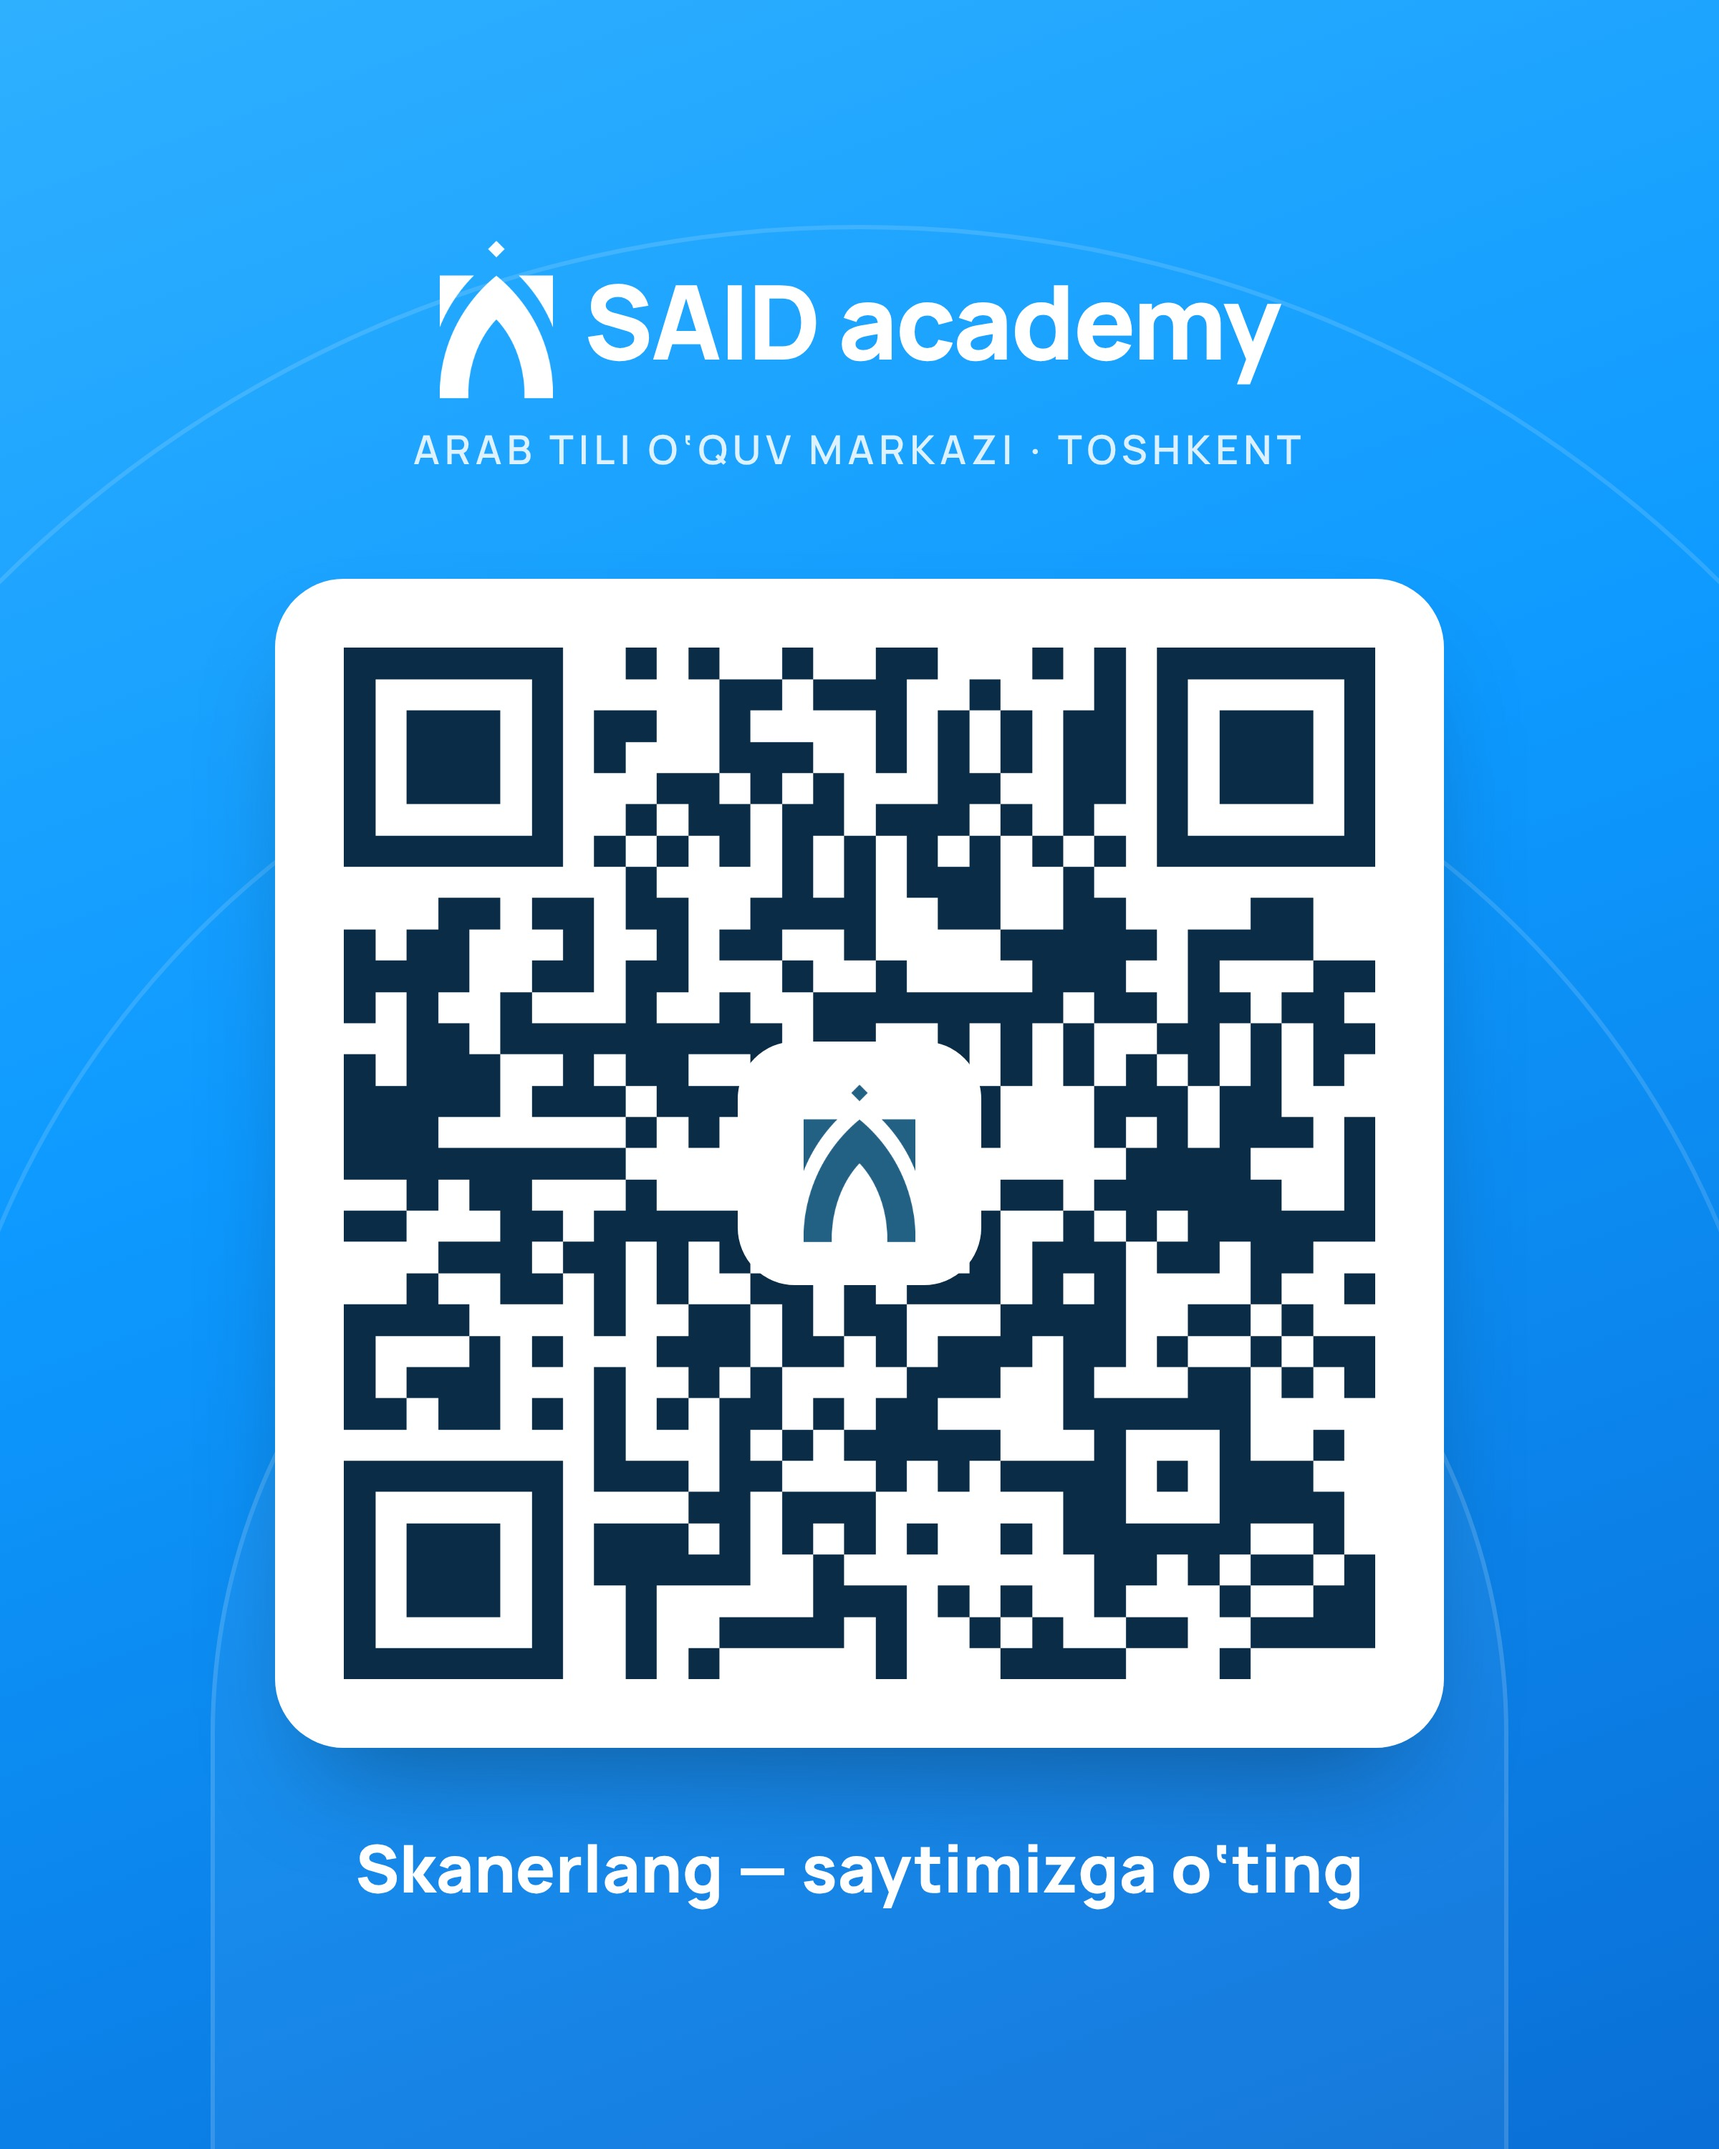
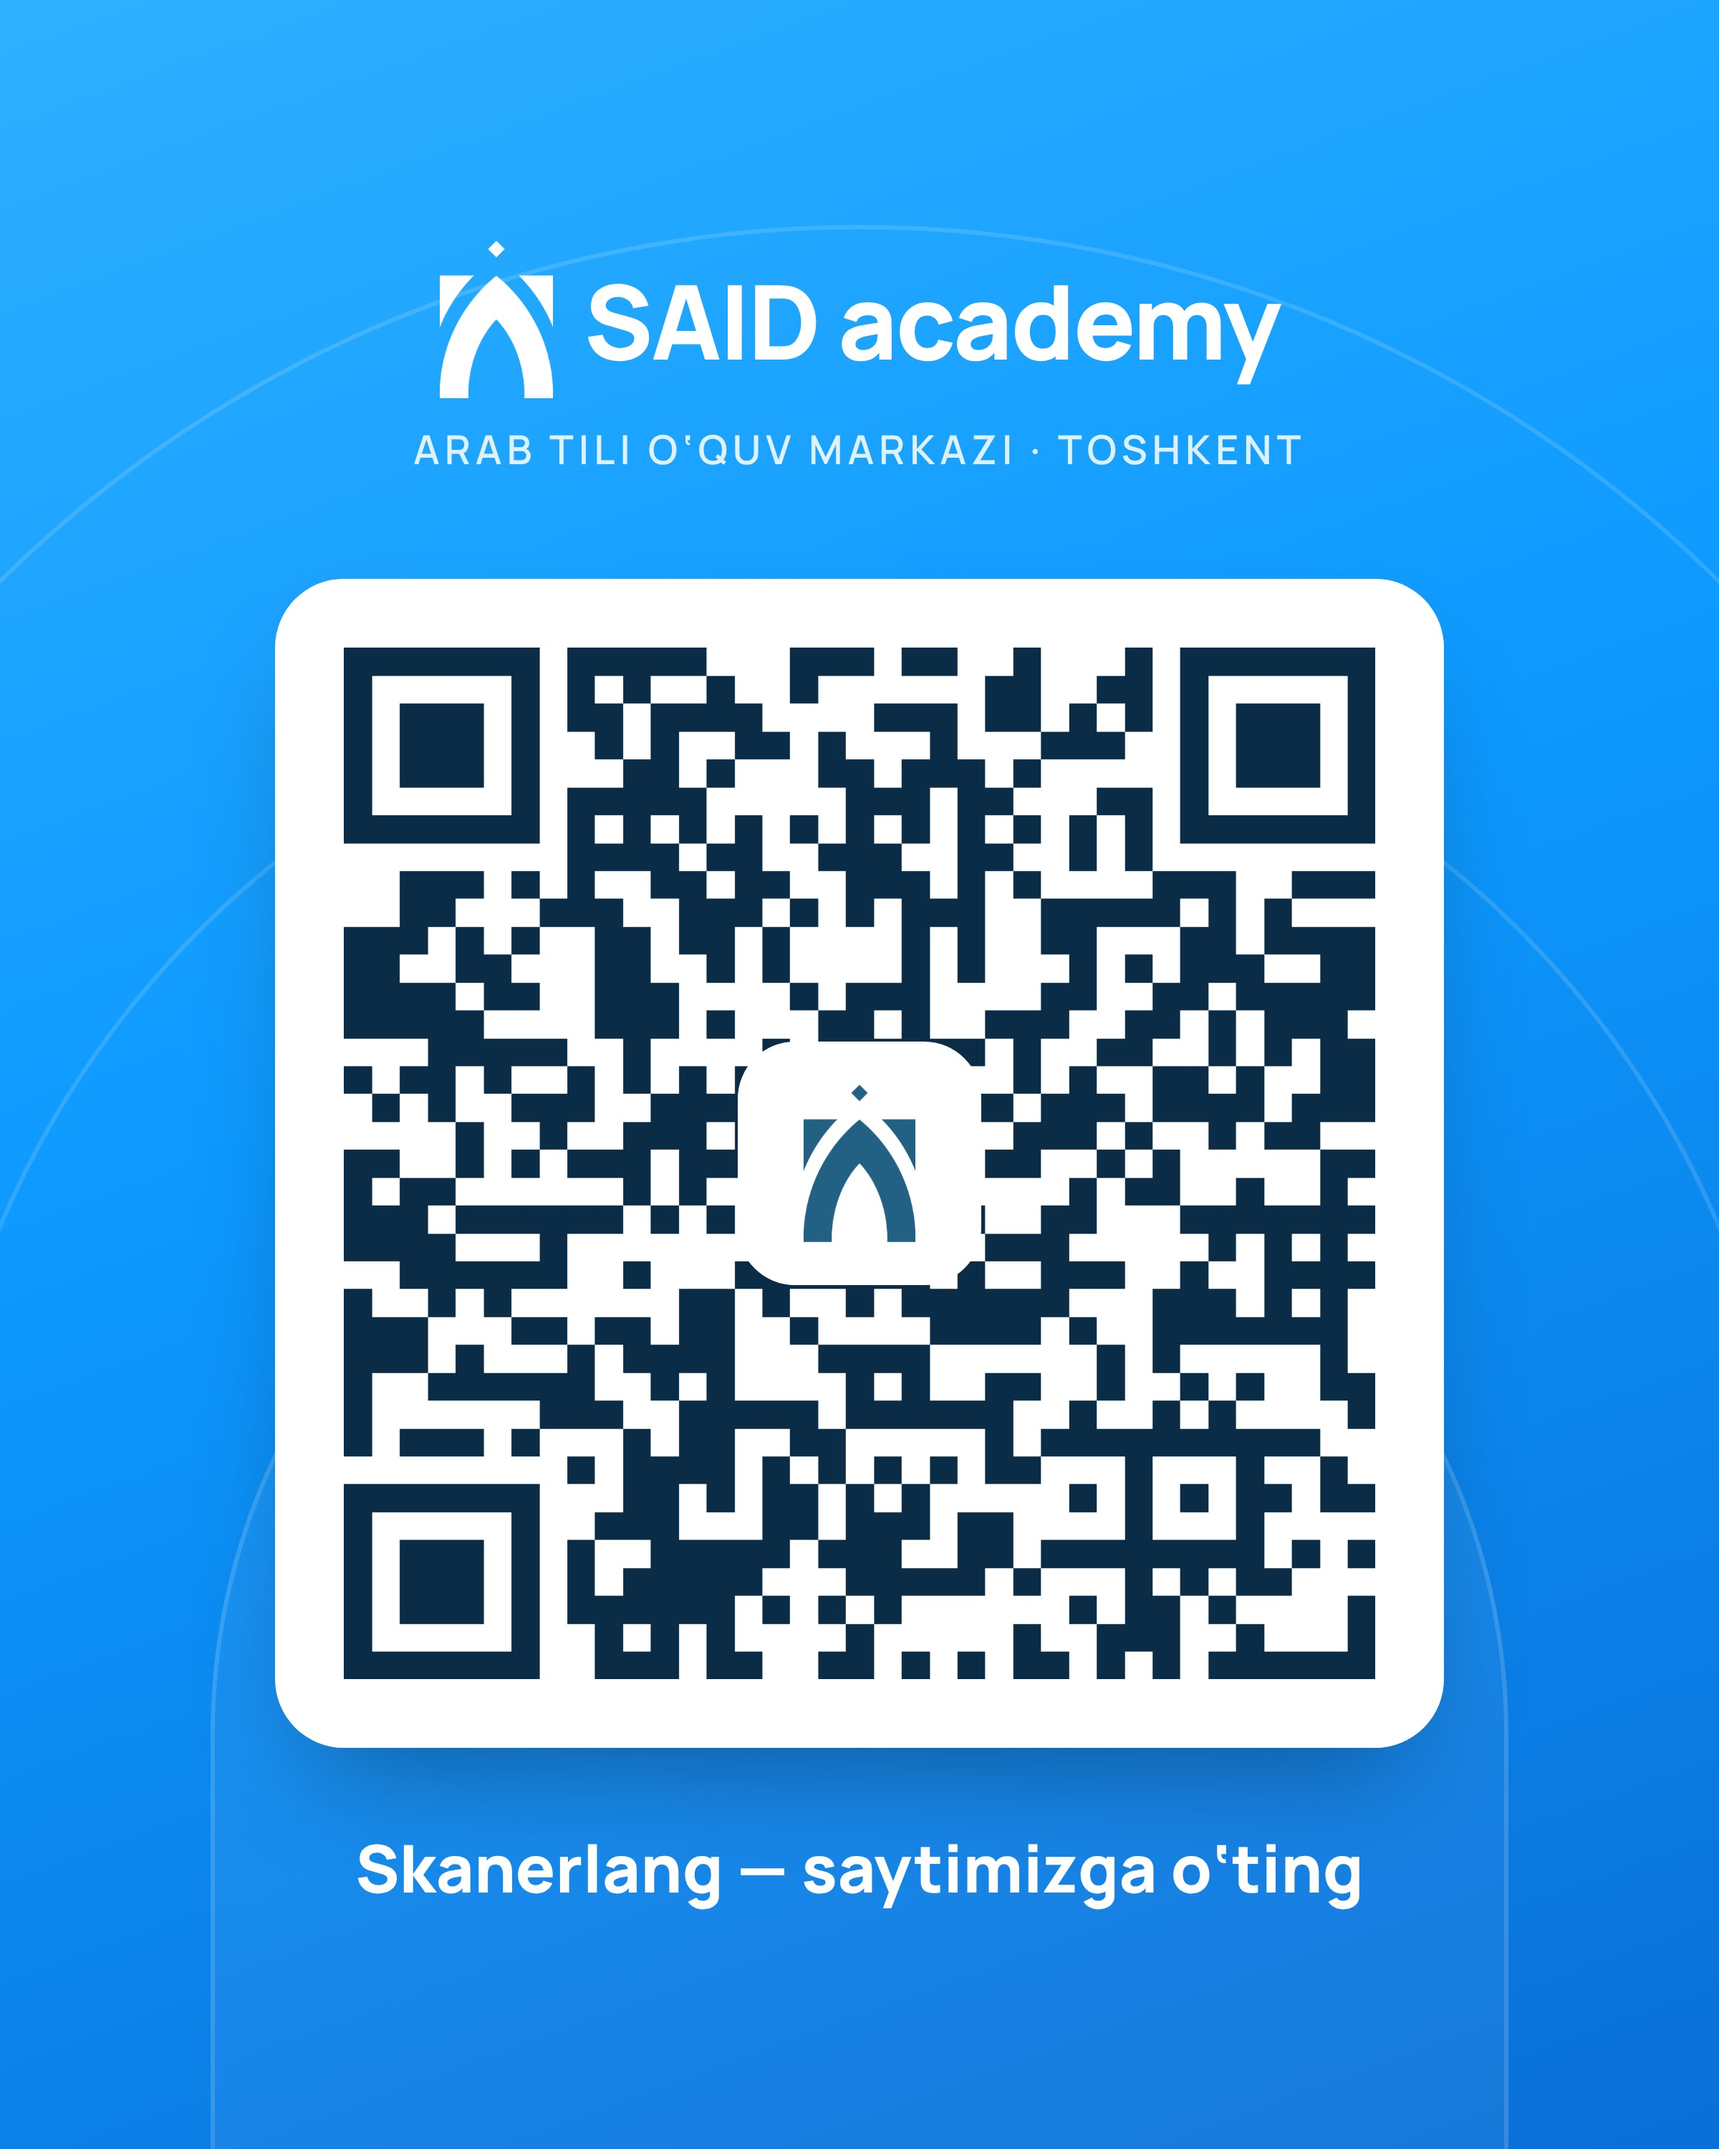
Source tracking (?ref=) and a "write on Telegram" button on application messages
- Site stores ?ref= / utm_source in localStorage, strips it from the URL,
  and sends it with the application (also in the copy-to-Telegram fallback)
- Worker appends "Manba: …" (qr -> "QR-kod (flayer)", instagram,
  telegram, or the raw sanitised value) and attaches an inline keyboard
  button linking to https://t.me/+<phone>
- QR code, SVG and flyer regenerated for https://abuyahyo.github.io/said/?ref=qr
- README and print/README explain how to use ref links

Claude-Session: https://claude.ai/code/session_01QCfxuh9TFDZb6UmoMMBJW9

Changed region(s): [[0.1875, 0.279, 0.8125, 0.806]]

diff --git a/index.html b/index.html
@@ -962,6 +962,10 @@ langBtn.addEventListener("click",e=>{e.stopPropagation();const o=langEl.classLis
 document.querySelectorAll(".lang li button").forEach(b=>b.addEventListener("click",()=>{apply(b.dataset.lang);langEl.classList.remove("open");langBtn.setAttribute("aria-expanded",false)}));
 document.addEventListener("click",()=>{langEl.classList.remove("open");langBtn.setAttribute("aria-expanded",false)});
 var NEWS=null;
+// Manba: ?ref=qr | instagram | telegram ... (yoki utm_source) — arizaga qo‘shiladi
+(function(){try{const q=new URLSearchParams(location.search);const r=(q.get("ref")||q.get("utm_source")||"").toLowerCase().replace(/[^a-z0-9_-]/g,"").slice(0,24);
+  if(r){localStorage.setItem("said_ref",r);if(history.replaceState){q.delete("ref");q.delete("utm_source");q.delete("utm_medium");q.delete("utm_campaign");const qs=q.toString();history.replaceState(null,"",location.pathname+(qs?"?"+qs:"")+location.hash)}}}catch(e){}})();
+function getRef(){try{return localStorage.getItem("said_ref")||""}catch(e){return ""}}
 apply(lang);
 // Hozir ochiq / yopiq — Toshkent vaqti bo‘yicha (07:00–20:00)
 function tashkentHour(){try{const p=new Intl.DateTimeFormat("en-GB",{timeZone:"Asia/Tashkent",hour:"numeric",hourCycle:"h23"}).formatToParts(new Date());return +p.find(x=>x.type==="hour").value}catch(e){return new Date(Date.now()+(300+new Date().getTimezoneOffset())*60000).getHours()}}
@@ -1022,14 +1026,14 @@ form.addEventListener("submit",e=>{
   setErr("fName",name?null:"e_name");setErr("fPhone",pOk?null:"e_phone");setErr("fAge",aOk?null:"e_age_r");
   if(!name||!pOk||!aOk){if(!aOk)openOpt();form.querySelector(".bad input").focus();return}
   const c=document.getElementById("course").value,fmt=form.querySelector("input[name=fmt]:checked").value,when=form.querySelector("input[name=when]:checked").value;
-  const text="Yangi ariza — SAID academy sayti\n\nIsm: "+name+"\nTelefon: "+phone+"\nKurs: "+UZ[c+"_h"]+"\nO‘quvchi yoshi: "+(age||"—")+"\nDars formati: "+(fmt==="group"?UZ.d_group:UZ.d_ind)+"\nQulay vaqt: "+UZ["w_"+when]+"\nTil: "+lang.toUpperCase();
+  const text="Yangi ariza — SAID academy sayti\n\nIsm: "+name+"\nTelefon: "+phone+"\nKurs: "+UZ[c+"_h"]+"\nO‘quvchi yoshi: "+(age||"—")+"\nDars formati: "+(fmt==="group"?UZ.d_group:UZ.d_ind)+"\nQulay vaqt: "+UZ["w_"+when]+"\nTil: "+lang.toUpperCase()+(getRef()?"\nManba: "+getRef():"");
   msg.textContent=text;ok.textContent="";failNote.hidden=true;
   if(document.getElementById("website").value){form.reset();clearDraft();closeApply();done.showModal();return} // spam-bot
   const auto=TG.endpoint||(TG.botToken&&TG.chatId);
   if(!auto){sent.showModal();return}
   const btn=form.querySelector("button[type=submit]"),label=btn.textContent;
   btn.disabled=true;btn.textContent=T[lang].sending;
-  sendTelegram({text,name,phone,course:c,age,format:fmt,when,lang,website:document.getElementById("website").value}).then(()=>{
+  sendTelegram({text,name,phone,course:c,age,format:fmt,when,lang,ref:getRef(),website:document.getElementById("website").value}).then(()=>{
     form.reset();clearDraft();closeApply();done.showModal();
   }).catch(()=>{
     failNote.textContent=T[lang].fail;failNote.hidden=false;sent.showModal();

diff --git a/worker/worker.js b/worker/worker.js
@@ -22,6 +22,7 @@ const COURSES = {
 const FORMATS = { group: "Guruh darsi", ind: "Individual dars" };
 const WHEN = { any: "Farqi yo‘q", morning: "Ertalab", day: "Kunduzi", evening: "Kechqurun" };
 const LANGS = new Set(["uz", "ru", "en"]);
+const REFS = { qr: "QR-kod (flayer)", instagram: "Instagram", telegram: "Telegram", site: "Sayt" };
 
 const LIMIT = 5;
 const WINDOW_MS = 10 * 60 * 1000;
@@ -89,6 +90,8 @@ export default {
     const format = FORMATS[clean(data.format, 8)];
     const when = WHEN[clean(data.when, 10)];
     const lang = clean(data.lang, 2).toLowerCase();
+    const refRaw = clean(data.ref, 24).toLowerCase().replace(/[^a-z0-9_-]/g, "");
+    const ref = refRaw ? (REFS[refRaw] || refRaw) : "";
 
     if (!name || !/^998\d{9}$/.test(phoneDigits) || (age !== null && !(age >= 4 && age <= 99)) || !course || !format || !when) {
       return reply({ ok: false, description: "Invalid form" }, 400, cors);
@@ -105,7 +108,10 @@ export default {
       "Dars formati: " + format,
       "Qulay vaqt: " + when,
       "Til: " + (LANGS.has(lang) ? lang.toUpperCase() : "UZ")
-    ].join("\n");
+    ].concat(ref ? ["Manba: " + ref] : []).join("\n");
+
+    // Xabar ostidagi tugma: arizachi bilan Telegramda yozishish (raqam Telegramda ro‘yxatdan o‘tgan bo‘lsa ochiladi)
+    const keyboard = { inline_keyboard: [[{ text: "Telegramda yozish", url: "https://t.me/+" + phoneDigits }]] };
 
     const url = "https://api.telegram.org/bot" + env.BOT_TOKEN + "/sendMessage";
     let j;
@@ -113,7 +119,7 @@ export default {
       const r = await fetch(url, {
         method: "POST",
         headers: { "Content-Type": "application/json" },
-        body: JSON.stringify({ chat_id: env.CHAT_ID, text: text, disable_web_page_preview: true })
+        body: JSON.stringify({ chat_id: env.CHAT_ID, text: text, disable_web_page_preview: true, reply_markup: keyboard })
       });
       j = await r.json();
     } catch (e) {

diff --git a/README.md b/README.md
@@ -70,6 +70,7 @@ Token Cloudflare'da maxfiy saqlanadi, saytda ko‘rinmaydi.
 
 - **E’lon** — `news.json` faylini GitHub'da tahrirlang: `uz`, `ru`, `en` matnlari, `link` (masalan `#apply` yoki to‘liq URL), `until` (`2026-12-31` ko‘rinishida, shu kundan keyin e’lon o‘zi yo‘qoladi). Matn bo‘sh bo‘lsa, qator ko‘rinmaydi. Saqlagandan 1–2 daqiqa o‘tib saytda chiqadi.
 - **Kurs havolasi** — `https://abuyahyo.github.io/said/?kurs=bolalar` (yoki `kattalar`, `grammatika`) ochilganda ariza oynasi shu kurs tanlangan holda ochiladi. Instagram bio va postlar uchun.
+- **Manba kuzatuvi** — havola oxiriga `?ref=instagram`, `?ref=telegram` yoki `?ref=qr` qo‘shing (masalan Instagram bio uchun `https://abuyahyo.github.io/said/?ref=instagram`). Shu havoladan kelgan odamning arizasida "Manba: Instagram" qatori chiqadi. Kerak bo‘lsa boshqa so‘z ham yozsa bo‘ladi (`?ref=reklama1`), u xabarda xuddi shunday ko‘rinadi.
 - **Kontakt fayli** — `said-academy.vcf`, "Kontaktni saqlash" tugmasi shu faylni yuklaydi.
 
 ## Keyingi rejalar

diff --git a/print/README.md b/print/README.md
@@ -1,6 +1,6 @@
 # Chop etish uchun materiallar
 
-Barcha QR-kodlar https://abuyahyo.github.io/said/ manziliga olib boradi.
+Barcha QR-kodlar https://abuyahyo.github.io/said/?ref=qr manziliga olib boradi. `?ref=qr` qismi tufayli QR orqali kelgan arizalarda "Manba: QR-kod (flayer)" qatori chiqadi.
 
 - `qr-plain.png` — oddiy QR, 2000×2000 px. Vizitka, flayer, e’lonlarga qo‘yish uchun.
 - `qr.svg` — vektor QR, istalgan o‘lchamga sifat yo‘qotmasdan kattalashadi. Dizaynerga berish uchun.
